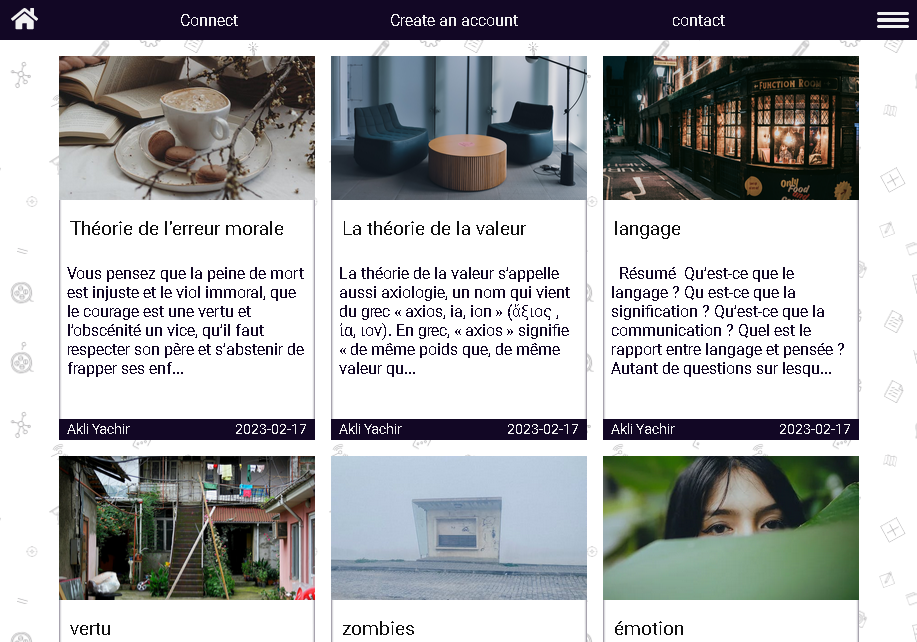
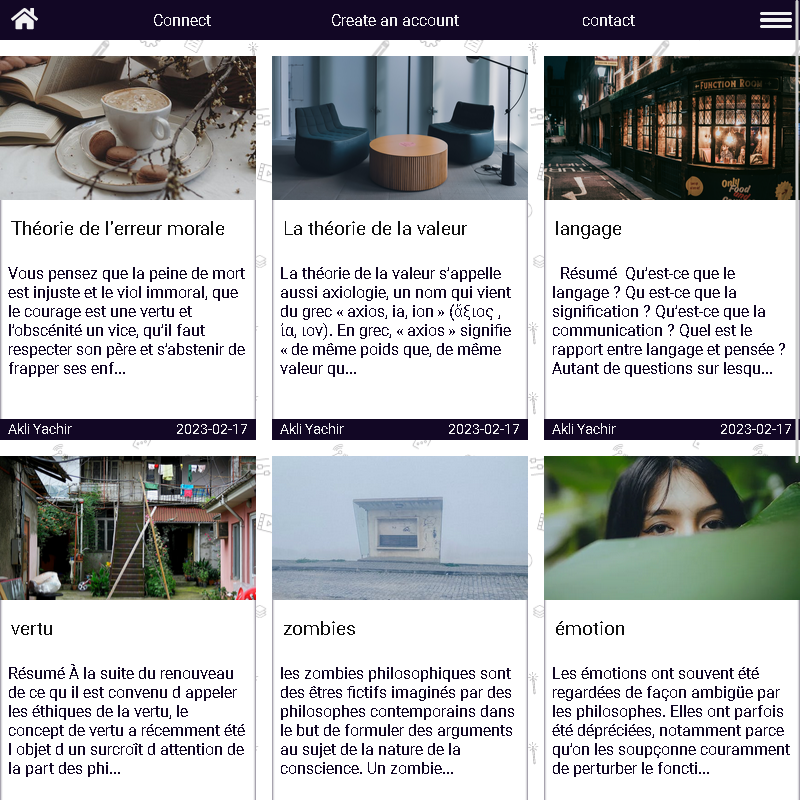
project section build

diff --git a/src/Components/5-ProjectCard/ProjectCard.css b/src/Components/5-ProjectCard/ProjectCard.css
@@ -1,14 +1,13 @@
 .light .ProjectCardContainer {
 	display: grid;
-	grid-template-columns: 1fr 2fr;
-	grid-template-rows: 1fr;
-	justify-content: center;
+	grid-template-columns: 15rem, auto;
+	justify-content: flex-start;
 	align-items: center;
+	box-shadow: 0 0 0 2px #a11212;
 }
 
 .light .project_image_preview {
 	width: 100%;
-	aspect-ratio: 1;
 	background-color: red;
 	display: block;
 }
